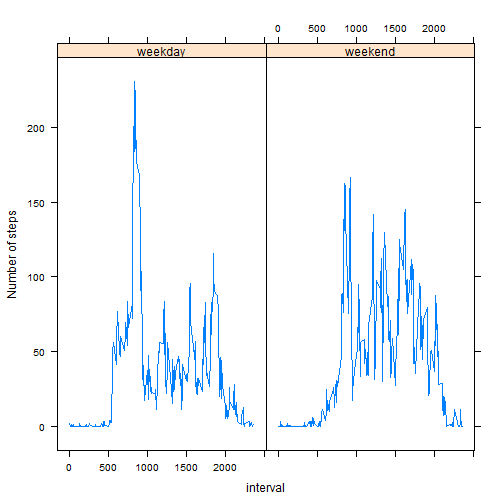
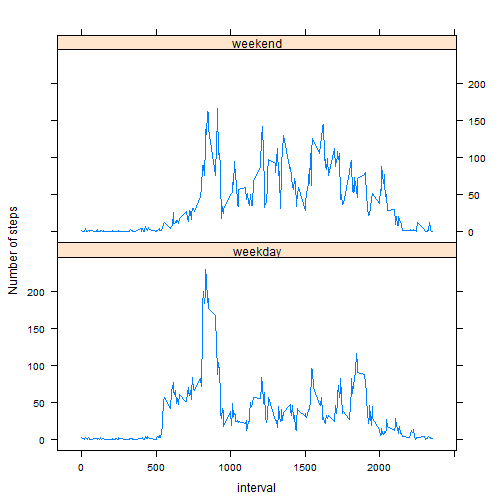
again

diff --git a/PA1_template.html b/PA1_template.html
@@ -1,127 +1,64 @@
 <!DOCTYPE html>
+<!-- saved from url=(0014)about:internet -->
 <html>
 <head>
 <meta http-equiv="Content-Type" content="text/html; charset=utf-8"/>
 
 <title>Peer Assessment 1</title>
 
-<script type="text/javascript">
-window.onload = function() {
-  var imgs = document.getElementsByTagName('img'), i, img;
-  for (i = 0; i < imgs.length; i++) {
-    img = imgs[i];
-    // center an image if it is the only element of its parent
-    if (img.parentElement.childElementCount === 1)
-      img.parentElement.style.textAlign = 'center';
-  }
-};
-</script>
-
-<!-- Styles for R syntax highlighter -->
-<style type="text/css">
-   pre .operator,
-   pre .paren {
-     color: rgb(104, 118, 135)
-   }
-
-   pre .literal {
-     color: #990073
-   }
-
-   pre .number {
-     color: #099;
-   }
-
-   pre .comment {
-     color: #998;
-     font-style: italic
-   }
-
-   pre .keyword {
-     color: #900;
-     font-weight: bold
-   }
-
-   pre .identifier {
-     color: rgb(0, 0, 0);
-   }
-
-   pre .string {
-     color: #d14;
-   }
-</style>
-
-<!-- R syntax highlighter -->
-<script type="text/javascript">
-var hljs=new function(){function m(p){return p.replace(/&/gm,"&amp;").replace(/</gm,"&lt;")}function f(r,q,p){return RegExp(q,"m"+(r.cI?"i":"")+(p?"g":""))}function b(r){for(var p=0;p<r.childNodes.length;p++){var q=r.childNodes[p];if(q.nodeName=="CODE"){return q}if(!(q.nodeType==3&&q.nodeValue.match(/\s+/))){break}}}function h(t,s){var p="";for(var r=0;r<t.childNodes.length;r++){if(t.childNodes[r].nodeType==3){var q=t.childNodes[r].nodeValue;if(s){q=q.replace(/\n/g,"")}p+=q}else{if(t.childNodes[r].nodeName=="BR"){p+="\n"}else{p+=h(t.childNodes[r])}}}if(/MSIE [678]/.test(navigator.userAgent)){p=p.replace(/\r/g,"\n")}return p}function a(s){var r=s.className.split(/\s+/);r=r.concat(s.parentNode.className.split(/\s+/));for(var q=0;q<r.length;q++){var p=r[q].replace(/^language-/,"");if(e[p]){return p}}}function c(q){var p=[];(function(s,t){for(var r=0;r<s.childNodes.length;r++){if(s.childNodes[r].nodeType==3){t+=s.childNodes[r].nodeValue.length}else{if(s.childNodes[r].nodeName=="BR"){t+=1}else{if(s.childNodes[r].nodeType==1){p.push({event:"start",offset:t,node:s.childNodes[r]});t=arguments.callee(s.childNodes[r],t);p.push({event:"stop",offset:t,node:s.childNodes[r]})}}}}return t})(q,0);return p}function k(y,w,x){var q=0;var z="";var s=[];function u(){if(y.length&&w.length){if(y[0].offset!=w[0].offset){return(y[0].offset<w[0].offset)?y:w}else{return w[0].event=="start"?y:w}}else{return y.length?y:w}}function t(D){var A="<"+D.nodeName.toLowerCase();for(var B=0;B<D.attributes.length;B++){var C=D.attributes[B];A+=" "+C.nodeName.toLowerCase();if(C.value!==undefined&&C.value!==false&&C.value!==null){A+='="'+m(C.value)+'"'}}return A+">"}while(y.length||w.length){var v=u().splice(0,1)[0];z+=m(x.substr(q,v.offset-q));q=v.offset;if(v.event=="start"){z+=t(v.node);s.push(v.node)}else{if(v.event=="stop"){var p,r=s.length;do{r--;p=s[r];z+=("</"+p.nodeName.toLowerCase()+">")}while(p!=v.node);s.splice(r,1);while(r<s.length){z+=t(s[r]);r++}}}}return z+m(x.substr(q))}function j(){function q(x,y,v){if(x.compiled){return}var u;var s=[];if(x.k){x.lR=f(y,x.l||hljs.IR,true);for(var w in x.k){if(!x.k.hasOwnProperty(w)){continue}if(x.k[w] instanceof Object){u=x.k[w]}else{u=x.k;w="keyword"}for(var r in u){if(!u.hasOwnProperty(r)){continue}x.k[r]=[w,u[r]];s.push(r)}}}if(!v){if(x.bWK){x.b="\\b("+s.join("|")+")\\s"}x.bR=f(y,x.b?x.b:"\\B|\\b");if(!x.e&&!x.eW){x.e="\\B|\\b"}if(x.e){x.eR=f(y,x.e)}}if(x.i){x.iR=f(y,x.i)}if(x.r===undefined){x.r=1}if(!x.c){x.c=[]}x.compiled=true;for(var t=0;t<x.c.length;t++){if(x.c[t]=="self"){x.c[t]=x}q(x.c[t],y,false)}if(x.starts){q(x.starts,y,false)}}for(var p in e){if(!e.hasOwnProperty(p)){continue}q(e[p].dM,e[p],true)}}function d(B,C){if(!j.called){j();j.called=true}function q(r,M){for(var L=0;L<M.c.length;L++){if((M.c[L].bR.exec(r)||[null])[0]==r){return M.c[L]}}}function v(L,r){if(D[L].e&&D[L].eR.test(r)){return 1}if(D[L].eW){var M=v(L-1,r);return M?M+1:0}return 0}function w(r,L){return L.i&&L.iR.test(r)}function K(N,O){var M=[];for(var L=0;L<N.c.length;L++){M.push(N.c[L].b)}var r=D.length-1;do{if(D[r].e){M.push(D[r].e)}r--}while(D[r+1].eW);if(N.i){M.push(N.i)}return f(O,M.join("|"),true)}function p(M,L){var N=D[D.length-1];if(!N.t){N.t=K(N,E)}N.t.lastIndex=L;var r=N.t.exec(M);return r?[M.substr(L,r.index-L),r[0],false]:[M.substr(L),"",true]}function z(N,r){var L=E.cI?r[0].toLowerCase():r[0];var M=N.k[L];if(M&&M instanceof Array){return M}return false}function F(L,P){L=m(L);if(!P.k){return L}var r="";var O=0;P.lR.lastIndex=0;var M=P.lR.exec(L);while(M){r+=L.substr(O,M.index-O);var N=z(P,M);if(N){x+=N[1];r+='<span class="'+N[0]+'">'+M[0]+"</span>"}else{r+=M[0]}O=P.lR.lastIndex;M=P.lR.exec(L)}return r+L.substr(O,L.length-O)}function J(L,M){if(M.sL&&e[M.sL]){var r=d(M.sL,L);x+=r.keyword_count;return r.value}else{return F(L,M)}}function I(M,r){var L=M.cN?'<span class="'+M.cN+'">':"";if(M.rB){y+=L;M.buffer=""}else{if(M.eB){y+=m(r)+L;M.buffer=""}else{y+=L;M.buffer=r}}D.push(M);A+=M.r}function G(N,M,Q){var R=D[D.length-1];if(Q){y+=J(R.buffer+N,R);return false}var P=q(M,R);if(P){y+=J(R.buffer+N,R);I(P,M);return P.rB}var L=v(D.length-1,M);if(L){var O=R.cN?"</span>":"";if(R.rE){y+=J(R.buffer+N,R)+O}else{if(R.eE){y+=J(R.buffer+N,R)+O+m(M)}else{y+=J(R.buffer+N+M,R)+O}}while(L>1){O=D[D.length-2].cN?"</span>":"";y+=O;L--;D.length--}var r=D[D.length-1];D.length--;D[D.length-1].buffer="";if(r.starts){I(r.starts,"")}return R.rE}if(w(M,R)){throw"Illegal"}}var E=e[B];var D=[E.dM];var A=0;var x=0;var y="";try{var s,u=0;E.dM.buffer="";do{s=p(C,u);var t=G(s[0],s[1],s[2]);u+=s[0].length;if(!t){u+=s[1].length}}while(!s[2]);if(D.length>1){throw"Illegal"}return{r:A,keyword_count:x,value:y}}catch(H){if(H=="Illegal"){return{r:0,keyword_count:0,value:m(C)}}else{throw H}}}function g(t){var p={keyword_count:0,r:0,value:m(t)};var r=p;for(var q in e){if(!e.hasOwnProperty(q)){continue}var s=d(q,t);s.language=q;if(s.keyword_count+s.r>r.keyword_count+r.r){r=s}if(s.keyword_count+s.r>p.keyword_count+p.r){r=p;p=s}}if(r.language){p.second_best=r}return p}function i(r,q,p){if(q){r=r.replace(/^((<[^>]+>|\t)+)/gm,function(t,w,v,u){return w.replace(/\t/g,q)})}if(p){r=r.replace(/\n/g,"<br>")}return r}function n(t,w,r){var x=h(t,r);var v=a(t);var y,s;if(v){y=d(v,x)}else{return}var q=c(t);if(q.length){s=document.createElement("pre");s.innerHTML=y.value;y.value=k(q,c(s),x)}y.value=i(y.value,w,r);var u=t.className;if(!u.match("(\\s|^)(language-)?"+v+"(\\s|$)")){u=u?(u+" "+v):v}if(/MSIE [678]/.test(navigator.userAgent)&&t.tagName=="CODE"&&t.parentNode.tagName=="PRE"){s=t.parentNode;var p=document.createElement("div");p.innerHTML="<pre><code>"+y.value+"</code></pre>";t=p.firstChild.firstChild;p.firstChild.cN=s.cN;s.parentNode.replaceChild(p.firstChild,s)}else{t.innerHTML=y.value}t.className=u;t.result={language:v,kw:y.keyword_count,re:y.r};if(y.second_best){t.second_best={language:y.second_best.language,kw:y.second_best.keyword_count,re:y.second_best.r}}}function o(){if(o.called){return}o.called=true;var r=document.getElementsByTagName("pre");for(var p=0;p<r.length;p++){var q=b(r[p]);if(q){n(q,hljs.tabReplace)}}}function l(){if(window.addEventListener){window.addEventListener("DOMContentLoaded",o,false);window.addEventListener("load",o,false)}else{if(window.attachEvent){window.attachEvent("onload",o)}else{window.onload=o}}}var e={};this.LANGUAGES=e;this.highlight=d;this.highlightAuto=g;this.fixMarkup=i;this.highlightBlock=n;this.initHighlighting=o;this.initHighlightingOnLoad=l;this.IR="[a-zA-Z][a-zA-Z0-9_]*";this.UIR="[a-zA-Z_][a-zA-Z0-9_]*";this.NR="\\b\\d+(\\.\\d+)?";this.CNR="\\b(0[xX][a-fA-F0-9]+|(\\d+(\\.\\d*)?|\\.\\d+)([eE][-+]?\\d+)?)";this.BNR="\\b(0b[01]+)";this.RSR="!|!=|!==|%|%=|&|&&|&=|\\*|\\*=|\\+|\\+=|,|\\.|-|-=|/|/=|:|;|<|<<|<<=|<=|=|==|===|>|>=|>>|>>=|>>>|>>>=|\\?|\\[|\\{|\\(|\\^|\\^=|\\||\\|=|\\|\\||~";this.ER="(?![\\s\\S])";this.BE={b:"\\\\.",r:0};this.ASM={cN:"string",b:"'",e:"'",i:"\\n",c:[this.BE],r:0};this.QSM={cN:"string",b:'"',e:'"',i:"\\n",c:[this.BE],r:0};this.CLCM={cN:"comment",b:"//",e:"$"};this.CBLCLM={cN:"comment",b:"/\\*",e:"\\*/"};this.HCM={cN:"comment",b:"#",e:"$"};this.NM={cN:"number",b:this.NR,r:0};this.CNM={cN:"number",b:this.CNR,r:0};this.BNM={cN:"number",b:this.BNR,r:0};this.inherit=function(r,s){var p={};for(var q in r){p[q]=r[q]}if(s){for(var q in s){p[q]=s[q]}}return p}}();hljs.LANGUAGES.cpp=function(){var a={keyword:{"false":1,"int":1,"float":1,"while":1,"private":1,"char":1,"catch":1,"export":1,virtual:1,operator:2,sizeof:2,dynamic_cast:2,typedef:2,const_cast:2,"const":1,struct:1,"for":1,static_cast:2,union:1,namespace:1,unsigned:1,"long":1,"throw":1,"volatile":2,"static":1,"protected":1,bool:1,template:1,mutable:1,"if":1,"public":1,friend:2,"do":1,"return":1,"goto":1,auto:1,"void":2,"enum":1,"else":1,"break":1,"new":1,extern:1,using:1,"true":1,"class":1,asm:1,"case":1,typeid:1,"short":1,reinterpret_cast:2,"default":1,"double":1,register:1,explicit:1,signed:1,typename:1,"try":1,"this":1,"switch":1,"continue":1,wchar_t:1,inline:1,"delete":1,alignof:1,char16_t:1,char32_t:1,constexpr:1,decltype:1,noexcept:1,nullptr:1,static_assert:1,thread_local:1,restrict:1,_Bool:1,complex:1},built_in:{std:1,string:1,cin:1,cout:1,cerr:1,clog:1,stringstream:1,istringstream:1,ostringstream:1,auto_ptr:1,deque:1,list:1,queue:1,stack:1,vector:1,map:1,set:1,bitset:1,multiset:1,multimap:1,unordered_set:1,unordered_map:1,unordered_multiset:1,unordered_multimap:1,array:1,shared_ptr:1}};return{dM:{k:a,i:"</",c:[hljs.CLCM,hljs.CBLCLM,hljs.QSM,{cN:"string",b:"'\\\\?.",e:"'",i:"."},{cN:"number",b:"\\b(\\d+(\\.\\d*)?|\\.\\d+)(u|U|l|L|ul|UL|f|F)"},hljs.CNM,{cN:"preprocessor",b:"#",e:"$"},{cN:"stl_container",b:"\\b(deque|list|queue|stack|vector|map|set|bitset|multiset|multimap|unordered_map|unordered_set|unordered_multiset|unordered_multimap|array)\\s*<",e:">",k:a,r:10,c:["self"]}]}}}();hljs.LANGUAGES.r={dM:{c:[hljs.HCM,{cN:"number",b:"\\b0[xX][0-9a-fA-F]+[Li]?\\b",e:hljs.IMMEDIATE_RE,r:0},{cN:"number",b:"\\b\\d+(?:[eE][+\\-]?\\d*)?L\\b",e:hljs.IMMEDIATE_RE,r:0},{cN:"number",b:"\\b\\d+\\.(?!\\d)(?:i\\b)?",e:hljs.IMMEDIATE_RE,r:1},{cN:"number",b:"\\b\\d+(?:\\.\\d*)?(?:[eE][+\\-]?\\d*)?i?\\b",e:hljs.IMMEDIATE_RE,r:0},{cN:"number",b:"\\.\\d+(?:[eE][+\\-]?\\d*)?i?\\b",e:hljs.IMMEDIATE_RE,r:1},{cN:"keyword",b:"(?:tryCatch|library|setGeneric|setGroupGeneric)\\b",e:hljs.IMMEDIATE_RE,r:10},{cN:"keyword",b:"\\.\\.\\.",e:hljs.IMMEDIATE_RE,r:10},{cN:"keyword",b:"\\.\\.\\d+(?![\\w.])",e:hljs.IMMEDIATE_RE,r:10},{cN:"keyword",b:"\\b(?:function)",e:hljs.IMMEDIATE_RE,r:2},{cN:"keyword",b:"(?:if|in|break|next|repeat|else|for|return|switch|while|try|stop|warning|require|attach|detach|source|setMethod|setClass)\\b",e:hljs.IMMEDIATE_RE,r:1},{cN:"literal",b:"(?:NA|NA_integer_|NA_real_|NA_character_|NA_complex_)\\b",e:hljs.IMMEDIATE_RE,r:10},{cN:"literal",b:"(?:NULL|TRUE|FALSE|T|F|Inf|NaN)\\b",e:hljs.IMMEDIATE_RE,r:1},{cN:"identifier",b:"[a-zA-Z.][a-zA-Z0-9._]*\\b",e:hljs.IMMEDIATE_RE,r:0},{cN:"operator",b:"<\\-(?!\\s*\\d)",e:hljs.IMMEDIATE_RE,r:2},{cN:"operator",b:"\\->|<\\-",e:hljs.IMMEDIATE_RE,r:1},{cN:"operator",b:"%%|~",e:hljs.IMMEDIATE_RE},{cN:"operator",b:">=|<=|==|!=|\\|\\||&&|=|\\+|\\-|\\*|/|\\^|>|<|!|&|\\||\\$|:",e:hljs.IMMEDIATE_RE,r:0},{cN:"operator",b:"%",e:"%",i:"\\n",r:1},{cN:"identifier",b:"`",e:"`",r:0},{cN:"string",b:'"',e:'"',c:[hljs.BE],r:0},{cN:"string",b:"'",e:"'",c:[hljs.BE],r:0},{cN:"paren",b:"[[({\\])}]",e:hljs.IMMEDIATE_RE,r:0}]}};
-hljs.initHighlightingOnLoad();
-</script>
-
-
-
 <style type="text/css">
 body, td {
    font-family: sans-serif;
    background-color: white;
-   font-size: 13px;
-}
-
-body {
-  max-width: 800px;
-  margin: auto;
-  padding: 1em;
-  line-height: 20px;
+   font-size: 12px;
+   margin: 8px;
 }
 
 tt, code, pre {
    font-family: 'DejaVu Sans Mono', 'Droid Sans Mono', 'Lucida Console', Consolas, Monaco, monospace;
 }
 
-h1 {
-   font-size:2.2em;
+h1 { 
+   font-size:2.2em; 
 }
 
-h2 {
-   font-size:1.8em;
+h2 { 
+   font-size:1.8em; 
 }
 
-h3 {
-   font-size:1.4em;
+h3 { 
+   font-size:1.4em; 
 }
 
-h4 {
-   font-size:1.0em;
+h4 { 
+   font-size:1.0em; 
 }
 
-h5 {
-   font-size:0.9em;
+h5 { 
+   font-size:0.9em; 
 }
 
-h6 {
-   font-size:0.8em;
+h6 { 
+   font-size:0.8em; 
 }
 
 a:visited {
    color: rgb(50%, 0%, 50%);
 }
 
-pre, img {
-  max-width: 100%;
+pre {	
+   margin-top: 0;
+   max-width: 95%;
+   border: 1px solid #ccc;
+   white-space: pre-wrap;
 }
-pre {
-  overflow-x: auto;
-}
+
 pre code {
    display: block; padding: 0.5em;
 }
 
-code {
-  font-size: 92%;
-  border: 1px solid #ccc;
-}
-
-code[class] {
-  background-color: #F8F8F8;
+code.r, code.cpp {
+   background-color: #F8F8F8;
 }
 
 table, td, th {
@@ -144,57 +81,97 @@ hr {
 }
 
 @media print {
-   * {
-      background: transparent !important;
-      color: black !important;
-      filter:none !important;
-      -ms-filter: none !important;
+   * { 
+      background: transparent !important; 
+      color: black !important; 
+      filter:none !important; 
+      -ms-filter: none !important; 
    }
 
-   body {
-      font-size:12pt;
-      max-width:100%;
+   body { 
+      font-size:12pt; 
+      max-width:100%; 
+   }
+       
+   a, a:visited { 
+      text-decoration: underline; 
    }
 
-   a, a:visited {
-      text-decoration: underline;
-   }
-
-   hr {
+   hr { 
       visibility: hidden;
       page-break-before: always;
    }
 
-   pre, blockquote {
-      padding-right: 1em;
-      page-break-inside: avoid;
+   pre, blockquote { 
+      padding-right: 1em; 
+      page-break-inside: avoid; 
    }
 
-   tr, img {
-      page-break-inside: avoid;
+   tr, img { 
+      page-break-inside: avoid; 
    }
 
-   img {
-      max-width: 100% !important;
+   img { 
+      max-width: 100% !important; 
    }
 
-   @page :left {
-      margin: 15mm 20mm 15mm 10mm;
+   @page :left { 
+      margin: 15mm 20mm 15mm 10mm; 
+   }
+     
+   @page :right { 
+      margin: 15mm 10mm 15mm 20mm; 
    }
 
-   @page :right {
-      margin: 15mm 10mm 15mm 20mm;
+   p, h2, h3 { 
+      orphans: 3; widows: 3; 
    }
 
-   p, h2, h3 {
-      orphans: 3; widows: 3;
-   }
-
-   h2, h3 {
-      page-break-after: avoid;
+   h2, h3 { 
+      page-break-after: avoid; 
    }
 }
+
 </style>
+
+<!-- Styles for R syntax highlighter -->
+<style type="text/css">
+   pre .operator,
+   pre .paren {
+     color: rgb(104, 118, 135)
+   }
+
+   pre .literal {
+     color: rgb(88, 72, 246)
+   }
+
+   pre .number {
+     color: rgb(0, 0, 205);
+   }
+
+   pre .comment {
+     color: rgb(76, 136, 107);
+   }
+
+   pre .keyword {
+     color: rgb(0, 0, 255);
+   }
+
+   pre .identifier {
+     color: rgb(0, 0, 0);
+   }
+
+   pre .string {
+     color: rgb(3, 106, 7);
+   }
+</style>
+
+<!-- R syntax highlighter -->
+<script type="text/javascript">
+var hljs=new function(){function m(p){return p.replace(/&/gm,"&amp;").replace(/</gm,"&lt;")}function f(r,q,p){return RegExp(q,"m"+(r.cI?"i":"")+(p?"g":""))}function b(r){for(var p=0;p<r.childNodes.length;p++){var q=r.childNodes[p];if(q.nodeName=="CODE"){return q}if(!(q.nodeType==3&&q.nodeValue.match(/\s+/))){break}}}function h(t,s){var p="";for(var r=0;r<t.childNodes.length;r++){if(t.childNodes[r].nodeType==3){var q=t.childNodes[r].nodeValue;if(s){q=q.replace(/\n/g,"")}p+=q}else{if(t.childNodes[r].nodeName=="BR"){p+="\n"}else{p+=h(t.childNodes[r])}}}if(/MSIE [678]/.test(navigator.userAgent)){p=p.replace(/\r/g,"\n")}return p}function a(s){var r=s.className.split(/\s+/);r=r.concat(s.parentNode.className.split(/\s+/));for(var q=0;q<r.length;q++){var p=r[q].replace(/^language-/,"");if(e[p]){return p}}}function c(q){var p=[];(function(s,t){for(var r=0;r<s.childNodes.length;r++){if(s.childNodes[r].nodeType==3){t+=s.childNodes[r].nodeValue.length}else{if(s.childNodes[r].nodeName=="BR"){t+=1}else{if(s.childNodes[r].nodeType==1){p.push({event:"start",offset:t,node:s.childNodes[r]});t=arguments.callee(s.childNodes[r],t);p.push({event:"stop",offset:t,node:s.childNodes[r]})}}}}return t})(q,0);return p}function k(y,w,x){var q=0;var z="";var s=[];function u(){if(y.length&&w.length){if(y[0].offset!=w[0].offset){return(y[0].offset<w[0].offset)?y:w}else{return w[0].event=="start"?y:w}}else{return y.length?y:w}}function t(D){var A="<"+D.nodeName.toLowerCase();for(var B=0;B<D.attributes.length;B++){var C=D.attributes[B];A+=" "+C.nodeName.toLowerCase();if(C.value!==undefined&&C.value!==false&&C.value!==null){A+='="'+m(C.value)+'"'}}return A+">"}while(y.length||w.length){var v=u().splice(0,1)[0];z+=m(x.substr(q,v.offset-q));q=v.offset;if(v.event=="start"){z+=t(v.node);s.push(v.node)}else{if(v.event=="stop"){var p,r=s.length;do{r--;p=s[r];z+=("</"+p.nodeName.toLowerCase()+">")}while(p!=v.node);s.splice(r,1);while(r<s.length){z+=t(s[r]);r++}}}}return z+m(x.substr(q))}function j(){function q(x,y,v){if(x.compiled){return}var u;var s=[];if(x.k){x.lR=f(y,x.l||hljs.IR,true);for(var w in x.k){if(!x.k.hasOwnProperty(w)){continue}if(x.k[w] instanceof Object){u=x.k[w]}else{u=x.k;w="keyword"}for(var r in u){if(!u.hasOwnProperty(r)){continue}x.k[r]=[w,u[r]];s.push(r)}}}if(!v){if(x.bWK){x.b="\\b("+s.join("|")+")\\s"}x.bR=f(y,x.b?x.b:"\\B|\\b");if(!x.e&&!x.eW){x.e="\\B|\\b"}if(x.e){x.eR=f(y,x.e)}}if(x.i){x.iR=f(y,x.i)}if(x.r===undefined){x.r=1}if(!x.c){x.c=[]}x.compiled=true;for(var t=0;t<x.c.length;t++){if(x.c[t]=="self"){x.c[t]=x}q(x.c[t],y,false)}if(x.starts){q(x.starts,y,false)}}for(var p in e){if(!e.hasOwnProperty(p)){continue}q(e[p].dM,e[p],true)}}function d(B,C){if(!j.called){j();j.called=true}function q(r,M){for(var L=0;L<M.c.length;L++){if((M.c[L].bR.exec(r)||[null])[0]==r){return M.c[L]}}}function v(L,r){if(D[L].e&&D[L].eR.test(r)){return 1}if(D[L].eW){var M=v(L-1,r);return M?M+1:0}return 0}function w(r,L){return L.i&&L.iR.test(r)}function K(N,O){var M=[];for(var L=0;L<N.c.length;L++){M.push(N.c[L].b)}var r=D.length-1;do{if(D[r].e){M.push(D[r].e)}r--}while(D[r+1].eW);if(N.i){M.push(N.i)}return f(O,M.join("|"),true)}function p(M,L){var N=D[D.length-1];if(!N.t){N.t=K(N,E)}N.t.lastIndex=L;var r=N.t.exec(M);return r?[M.substr(L,r.index-L),r[0],false]:[M.substr(L),"",true]}function z(N,r){var L=E.cI?r[0].toLowerCase():r[0];var M=N.k[L];if(M&&M instanceof Array){return M}return false}function F(L,P){L=m(L);if(!P.k){return L}var r="";var O=0;P.lR.lastIndex=0;var M=P.lR.exec(L);while(M){r+=L.substr(O,M.index-O);var N=z(P,M);if(N){x+=N[1];r+='<span class="'+N[0]+'">'+M[0]+"</span>"}else{r+=M[0]}O=P.lR.lastIndex;M=P.lR.exec(L)}return r+L.substr(O,L.length-O)}function J(L,M){if(M.sL&&e[M.sL]){var r=d(M.sL,L);x+=r.keyword_count;return r.value}else{return F(L,M)}}function I(M,r){var L=M.cN?'<span class="'+M.cN+'">':"";if(M.rB){y+=L;M.buffer=""}else{if(M.eB){y+=m(r)+L;M.buffer=""}else{y+=L;M.buffer=r}}D.push(M);A+=M.r}function G(N,M,Q){var R=D[D.length-1];if(Q){y+=J(R.buffer+N,R);return false}var P=q(M,R);if(P){y+=J(R.buffer+N,R);I(P,M);return P.rB}var L=v(D.length-1,M);if(L){var O=R.cN?"</span>":"";if(R.rE){y+=J(R.buffer+N,R)+O}else{if(R.eE){y+=J(R.buffer+N,R)+O+m(M)}else{y+=J(R.buffer+N+M,R)+O}}while(L>1){O=D[D.length-2].cN?"</span>":"";y+=O;L--;D.length--}var r=D[D.length-1];D.length--;D[D.length-1].buffer="";if(r.starts){I(r.starts,"")}return R.rE}if(w(M,R)){throw"Illegal"}}var E=e[B];var D=[E.dM];var A=0;var x=0;var y="";try{var s,u=0;E.dM.buffer="";do{s=p(C,u);var t=G(s[0],s[1],s[2]);u+=s[0].length;if(!t){u+=s[1].length}}while(!s[2]);if(D.length>1){throw"Illegal"}return{r:A,keyword_count:x,value:y}}catch(H){if(H=="Illegal"){return{r:0,keyword_count:0,value:m(C)}}else{throw H}}}function g(t){var p={keyword_count:0,r:0,value:m(t)};var r=p;for(var q in e){if(!e.hasOwnProperty(q)){continue}var s=d(q,t);s.language=q;if(s.keyword_count+s.r>r.keyword_count+r.r){r=s}if(s.keyword_count+s.r>p.keyword_count+p.r){r=p;p=s}}if(r.language){p.second_best=r}return p}function i(r,q,p){if(q){r=r.replace(/^((<[^>]+>|\t)+)/gm,function(t,w,v,u){return w.replace(/\t/g,q)})}if(p){r=r.replace(/\n/g,"<br>")}return r}function n(t,w,r){var x=h(t,r);var v=a(t);var y,s;if(v){y=d(v,x)}else{return}var q=c(t);if(q.length){s=document.createElement("pre");s.innerHTML=y.value;y.value=k(q,c(s),x)}y.value=i(y.value,w,r);var u=t.className;if(!u.match("(\\s|^)(language-)?"+v+"(\\s|$)")){u=u?(u+" "+v):v}if(/MSIE [678]/.test(navigator.userAgent)&&t.tagName=="CODE"&&t.parentNode.tagName=="PRE"){s=t.parentNode;var p=document.createElement("div");p.innerHTML="<pre><code>"+y.value+"</code></pre>";t=p.firstChild.firstChild;p.firstChild.cN=s.cN;s.parentNode.replaceChild(p.firstChild,s)}else{t.innerHTML=y.value}t.className=u;t.result={language:v,kw:y.keyword_count,re:y.r};if(y.second_best){t.second_best={language:y.second_best.language,kw:y.second_best.keyword_count,re:y.second_best.r}}}function o(){if(o.called){return}o.called=true;var r=document.getElementsByTagName("pre");for(var p=0;p<r.length;p++){var q=b(r[p]);if(q){n(q,hljs.tabReplace)}}}function l(){if(window.addEventListener){window.addEventListener("DOMContentLoaded",o,false);window.addEventListener("load",o,false)}else{if(window.attachEvent){window.attachEvent("onload",o)}else{window.onload=o}}}var e={};this.LANGUAGES=e;this.highlight=d;this.highlightAuto=g;this.fixMarkup=i;this.highlightBlock=n;this.initHighlighting=o;this.initHighlightingOnLoad=l;this.IR="[a-zA-Z][a-zA-Z0-9_]*";this.UIR="[a-zA-Z_][a-zA-Z0-9_]*";this.NR="\\b\\d+(\\.\\d+)?";this.CNR="\\b(0[xX][a-fA-F0-9]+|(\\d+(\\.\\d*)?|\\.\\d+)([eE][-+]?\\d+)?)";this.BNR="\\b(0b[01]+)";this.RSR="!|!=|!==|%|%=|&|&&|&=|\\*|\\*=|\\+|\\+=|,|\\.|-|-=|/|/=|:|;|<|<<|<<=|<=|=|==|===|>|>=|>>|>>=|>>>|>>>=|\\?|\\[|\\{|\\(|\\^|\\^=|\\||\\|=|\\|\\||~";this.ER="(?![\\s\\S])";this.BE={b:"\\\\.",r:0};this.ASM={cN:"string",b:"'",e:"'",i:"\\n",c:[this.BE],r:0};this.QSM={cN:"string",b:'"',e:'"',i:"\\n",c:[this.BE],r:0};this.CLCM={cN:"comment",b:"//",e:"$"};this.CBLCLM={cN:"comment",b:"/\\*",e:"\\*/"};this.HCM={cN:"comment",b:"#",e:"$"};this.NM={cN:"number",b:this.NR,r:0};this.CNM={cN:"number",b:this.CNR,r:0};this.BNM={cN:"number",b:this.BNR,r:0};this.inherit=function(r,s){var p={};for(var q in r){p[q]=r[q]}if(s){for(var q in s){p[q]=s[q]}}return p}}();hljs.LANGUAGES.cpp=function(){var a={keyword:{"false":1,"int":1,"float":1,"while":1,"private":1,"char":1,"catch":1,"export":1,virtual:1,operator:2,sizeof:2,dynamic_cast:2,typedef:2,const_cast:2,"const":1,struct:1,"for":1,static_cast:2,union:1,namespace:1,unsigned:1,"long":1,"throw":1,"volatile":2,"static":1,"protected":1,bool:1,template:1,mutable:1,"if":1,"public":1,friend:2,"do":1,"return":1,"goto":1,auto:1,"void":2,"enum":1,"else":1,"break":1,"new":1,extern:1,using:1,"true":1,"class":1,asm:1,"case":1,typeid:1,"short":1,reinterpret_cast:2,"default":1,"double":1,register:1,explicit:1,signed:1,typename:1,"try":1,"this":1,"switch":1,"continue":1,wchar_t:1,inline:1,"delete":1,alignof:1,char16_t:1,char32_t:1,constexpr:1,decltype:1,noexcept:1,nullptr:1,static_assert:1,thread_local:1,restrict:1,_Bool:1,complex:1},built_in:{std:1,string:1,cin:1,cout:1,cerr:1,clog:1,stringstream:1,istringstream:1,ostringstream:1,auto_ptr:1,deque:1,list:1,queue:1,stack:1,vector:1,map:1,set:1,bitset:1,multiset:1,multimap:1,unordered_set:1,unordered_map:1,unordered_multiset:1,unordered_multimap:1,array:1,shared_ptr:1}};return{dM:{k:a,i:"</",c:[hljs.CLCM,hljs.CBLCLM,hljs.QSM,{cN:"string",b:"'\\\\?.",e:"'",i:"."},{cN:"number",b:"\\b(\\d+(\\.\\d*)?|\\.\\d+)(u|U|l|L|ul|UL|f|F)"},hljs.CNM,{cN:"preprocessor",b:"#",e:"$"},{cN:"stl_container",b:"\\b(deque|list|queue|stack|vector|map|set|bitset|multiset|multimap|unordered_map|unordered_set|unordered_multiset|unordered_multimap|array)\\s*<",e:">",k:a,r:10,c:["self"]}]}}}();hljs.LANGUAGES.r={dM:{c:[hljs.HCM,{cN:"number",b:"\\b0[xX][0-9a-fA-F]+[Li]?\\b",e:hljs.IMMEDIATE_RE,r:0},{cN:"number",b:"\\b\\d+(?:[eE][+\\-]?\\d*)?L\\b",e:hljs.IMMEDIATE_RE,r:0},{cN:"number",b:"\\b\\d+\\.(?!\\d)(?:i\\b)?",e:hljs.IMMEDIATE_RE,r:1},{cN:"number",b:"\\b\\d+(?:\\.\\d*)?(?:[eE][+\\-]?\\d*)?i?\\b",e:hljs.IMMEDIATE_RE,r:0},{cN:"number",b:"\\.\\d+(?:[eE][+\\-]?\\d*)?i?\\b",e:hljs.IMMEDIATE_RE,r:1},{cN:"keyword",b:"(?:tryCatch|library|setGeneric|setGroupGeneric)\\b",e:hljs.IMMEDIATE_RE,r:10},{cN:"keyword",b:"\\.\\.\\.",e:hljs.IMMEDIATE_RE,r:10},{cN:"keyword",b:"\\.\\.\\d+(?![\\w.])",e:hljs.IMMEDIATE_RE,r:10},{cN:"keyword",b:"\\b(?:function)",e:hljs.IMMEDIATE_RE,r:2},{cN:"keyword",b:"(?:if|in|break|next|repeat|else|for|return|switch|while|try|stop|warning|require|attach|detach|source|setMethod|setClass)\\b",e:hljs.IMMEDIATE_RE,r:1},{cN:"literal",b:"(?:NA|NA_integer_|NA_real_|NA_character_|NA_complex_)\\b",e:hljs.IMMEDIATE_RE,r:10},{cN:"literal",b:"(?:NULL|TRUE|FALSE|T|F|Inf|NaN)\\b",e:hljs.IMMEDIATE_RE,r:1},{cN:"identifier",b:"[a-zA-Z.][a-zA-Z0-9._]*\\b",e:hljs.IMMEDIATE_RE,r:0},{cN:"operator",b:"<\\-(?!\\s*\\d)",e:hljs.IMMEDIATE_RE,r:2},{cN:"operator",b:"\\->|<\\-",e:hljs.IMMEDIATE_RE,r:1},{cN:"operator",b:"%%|~",e:hljs.IMMEDIATE_RE},{cN:"operator",b:">=|<=|==|!=|\\|\\||&&|=|\\+|\\-|\\*|/|\\^|>|<|!|&|\\||\\$|:",e:hljs.IMMEDIATE_RE,r:0},{cN:"operator",b:"%",e:"%",i:"\\n",r:1},{cN:"identifier",b:"`",e:"`",r:0},{cN:"string",b:'"',e:'"',c:[hljs.BE],r:0},{cN:"string",b:"'",e:"'",c:[hljs.BE],r:0},{cN:"paren",b:"[[({\\])}]",e:hljs.IMMEDIATE_RE,r:0}]}};
+hljs.initHighlightingOnLoad();
+</script>
+
 
 
 
@@ -332,11 +309,12 @@ library(plyr)
 data &lt;- ddply(df, .(interval, wend), summarise, mean=mean(steps))
 
 library(lattice)
-xyplot(mean ~ interval | wend, data=data, type=&quot;l&quot;, ylab = &quot;Number of steps&quot;)
+xyplot(mean ~ interval | wend, data=data, type=&quot;l&quot;, ylab = &quot;Number of steps&quot;, layout=c(1,2))
 </code></pre>
 
[2 lines of base64/hex data omitted]
 
 </body>
 
 </html>
+

diff --git a/PA1_template.md b/PA1_template.md
@@ -152,7 +152,7 @@ library(plyr)
 data <- ddply(df, .(interval, wend), summarise, mean=mean(steps))
 
 library(lattice)
-xyplot(mean ~ interval | wend, data=data, type="l", ylab = "Number of steps")
+xyplot(mean ~ interval | wend, data=data, type="l", ylab = "Number of steps", layout=c(1,2))
 ```
 
 ![plot of chunk unnamed-chunk-12](figure/unnamed-chunk-12-1.png) 
